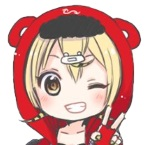
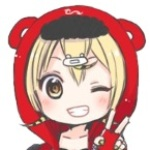
resolution change

diff --git a/index.html b/index.html
@@ -132,7 +132,7 @@
 							["jokers", 15, "Jokers"],
 							["aces-queens", 13, "Aces + Queens"],
 							["breakdown", 5, "Breakdown"],
-							["f2p", 13, "F2P"],
+							["free", 13, "F2P"],
 						];
 
 		// stores names for every character in every game ...
